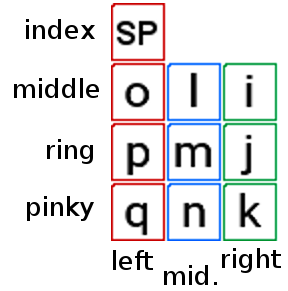
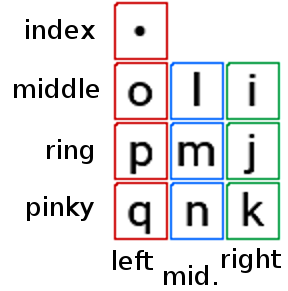
use bullet to denote anchor button in chords per convention

Changed region(s): [[0.375, 0.0, 1.0, 0.8351]]

diff --git a/src/FingerPanel.java b/src/FingerPanel.java
@@ -97,8 +97,7 @@ public class FingerPanel extends TwiddlerSubPanel implements  TwidorConstants {
 							}
 							for (int chordFinger = 0; chordFinger < 4; chordFinger++) { // anchor finger
 								if ((finger == chordFinger) && (fingerCol == chordCol)) {
-									KeyElement keyElement = keys.getKeyByButtons(KeyElement.buttonMask(finger, fingerCol));
-									add_key( subPanel, null, null, keyElement.getLabel(), border );
+									add_key( subPanel, null, null, "•", border );
 								}
 								else if (finger > chordFinger) {
 									add_key( subPanel, twiddlerBackground, null, "z", emptyBorder);
